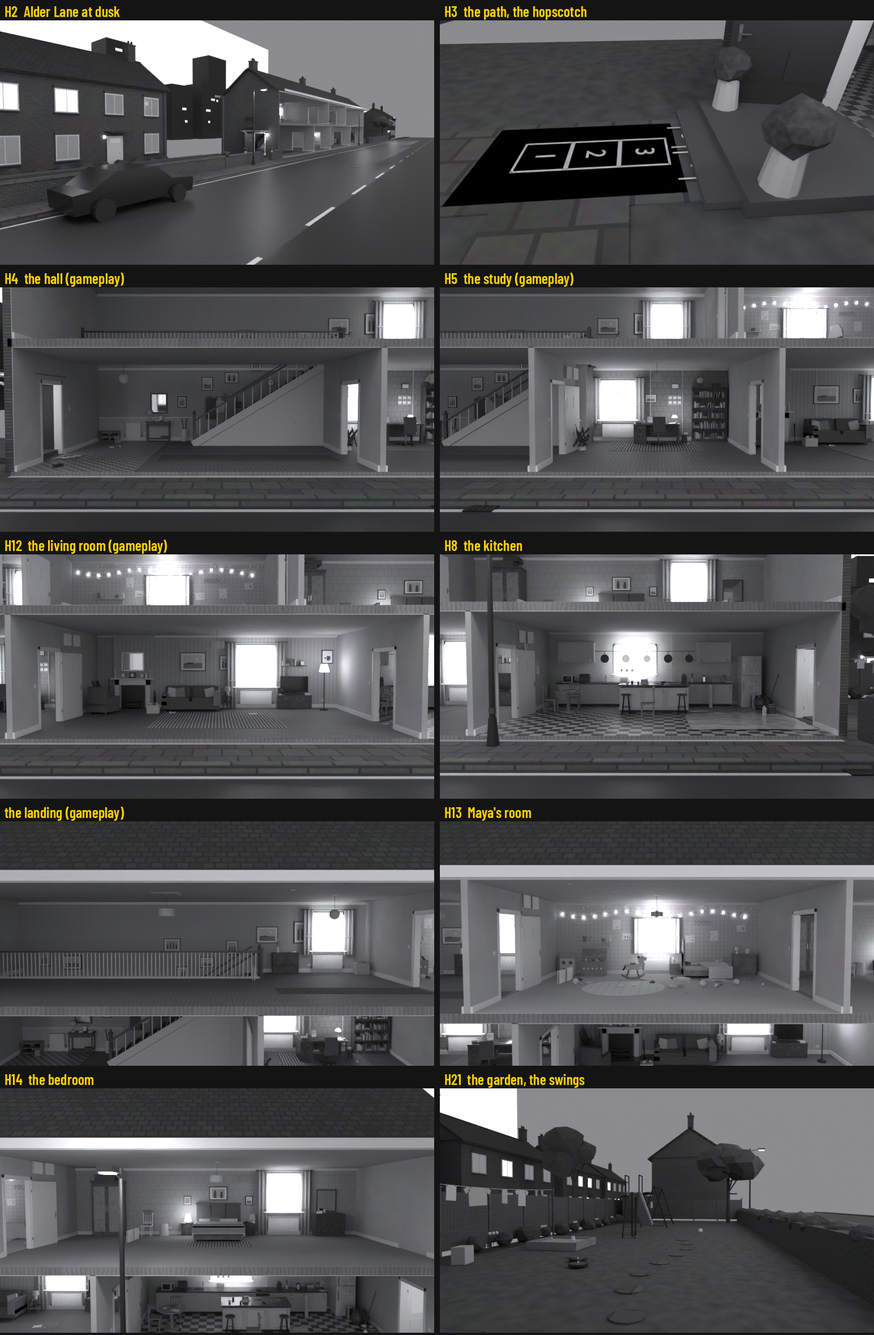
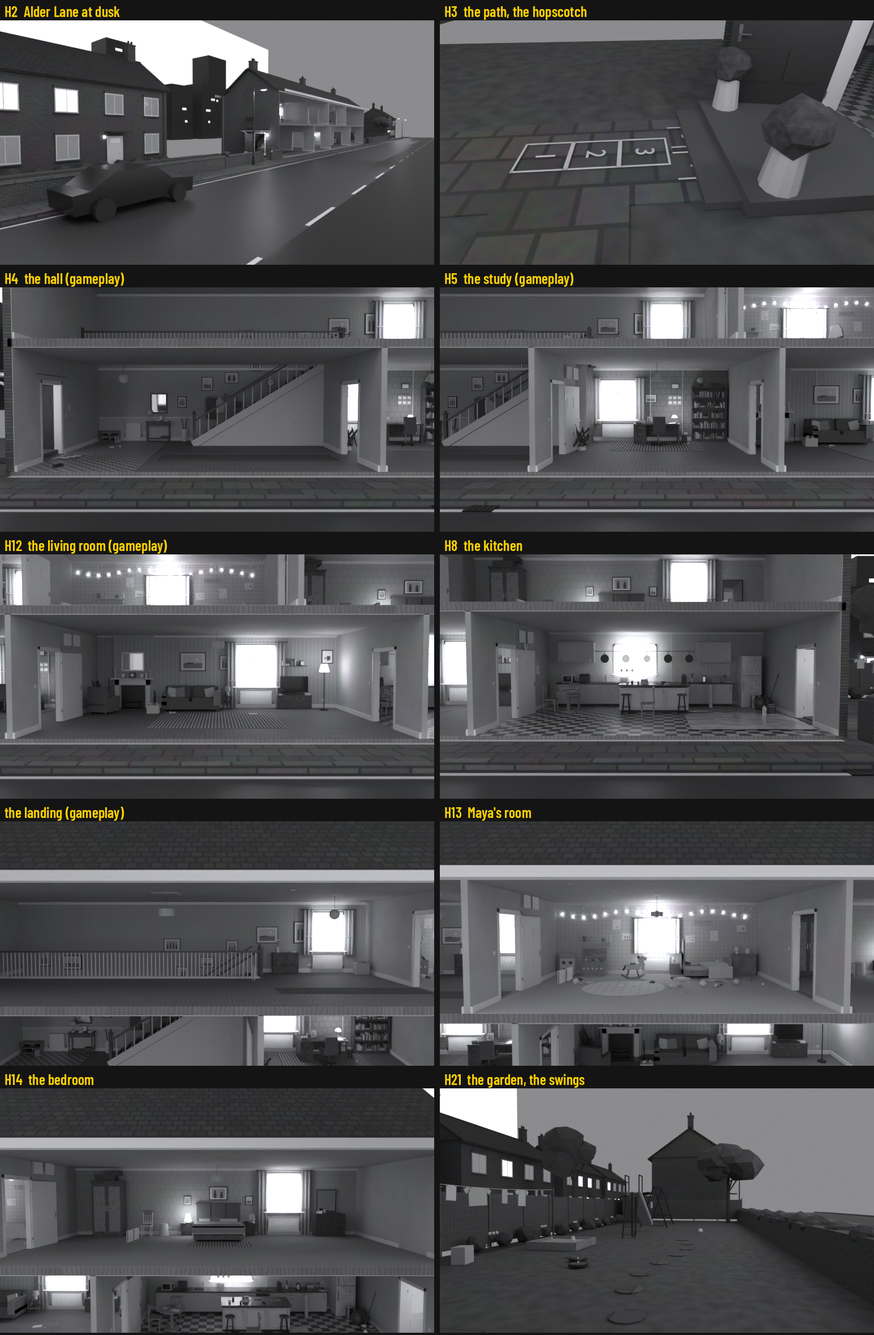
Home set, 10x detail: every room furnished and lived in, the story's props as named objects (Harrow's card, Elena's note, the family photo, the walkie on her shelf, the plastic sheeting and bleach), 13 neighbouring houses; the baked kitchen chair gives way to the story's
Claude-Session: https://claude.ai/code/session_015hMH19Q3ffBpefttWAikbH

diff --git a/Assets/Scripts/Level/StoryHome.cs b/Assets/Scripts/Level/StoryHome.cs
@@ -119,6 +119,8 @@ namespace ProjectInk
             var ink = new Material(Shader.Find("Unlit/Color")) { color = new Color(0.05f, 0.05f, 0.055f) };
             var white = new Material(Shader.Find("Unlit/Color")) { color = Color.white };
             // the kitchen chair (for later) and the bulb over the table
+            var bakedChair = GameObject.Find("KitchenChair");          // the set has one too: the story's is the one that matters
+            if (bakedChair != null) bakedChair.SetActive(false);
             chair = new GameObject("KitchenChair").transform;
             chair.position = new Vector3(29.2f, 0f, 0.9f);
             void Part(Transform p, Vector3 at, Vector3 size, Material m)
